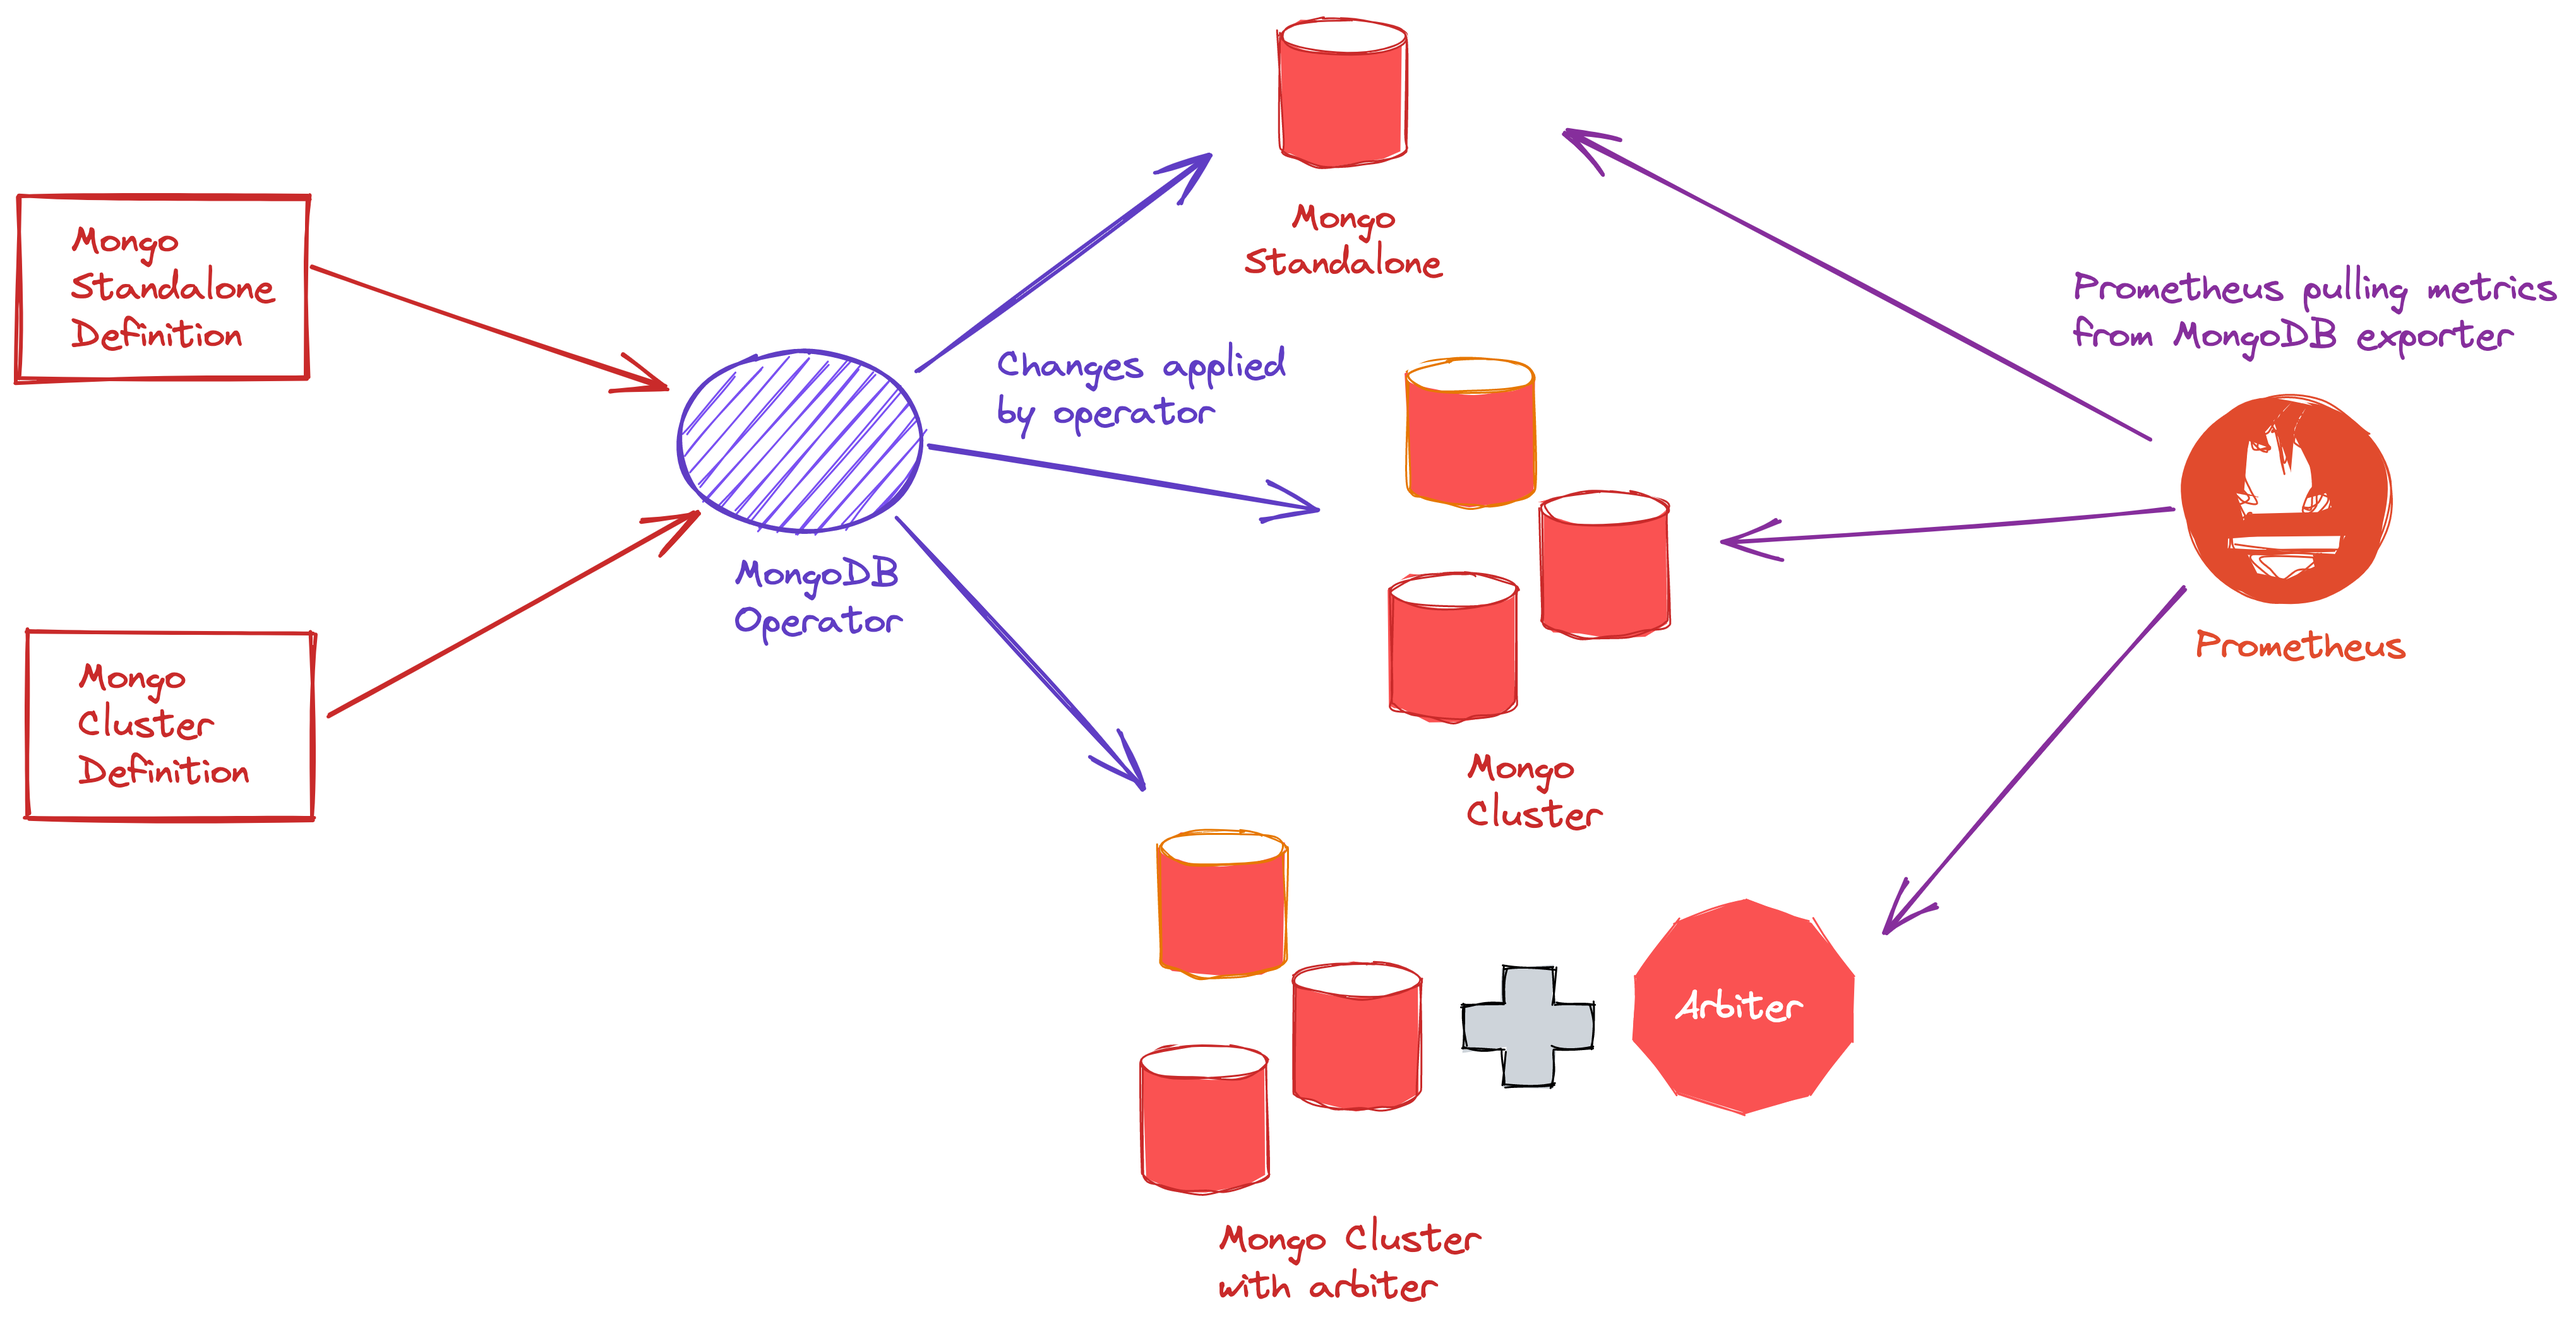
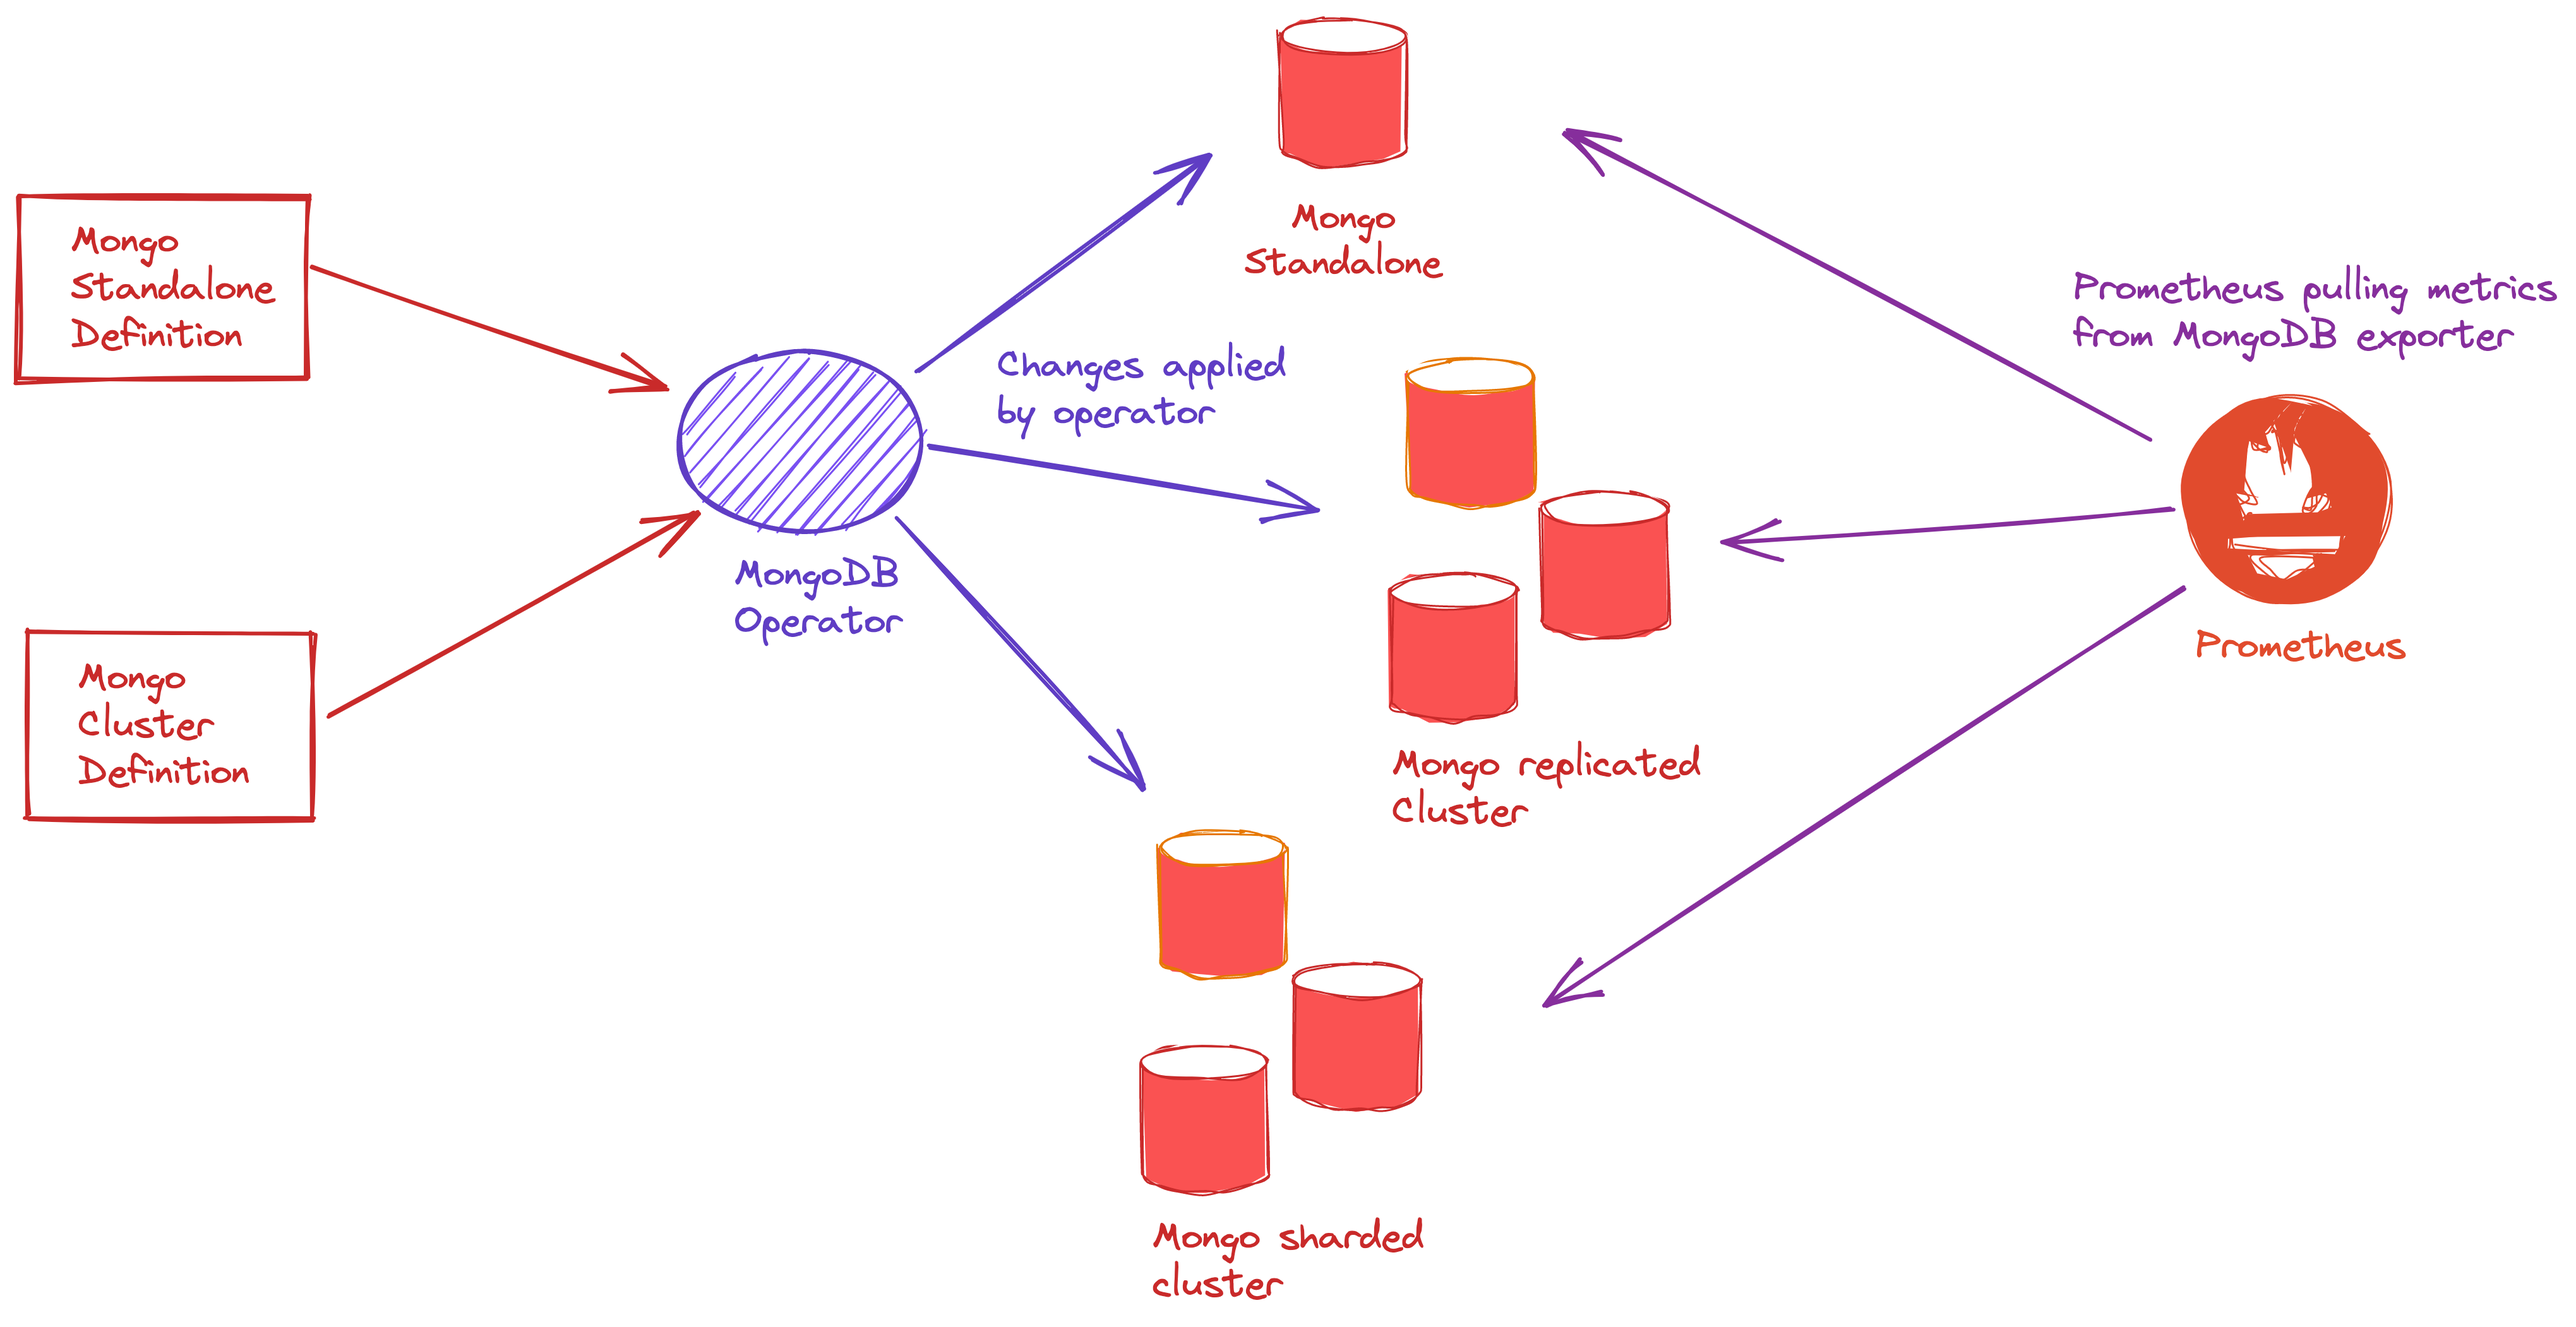
[Documentation][Change] Updated README and architecture image (#21)
* Updated README and architecture image

* Fixed standalone mongo image

diff --git a/README.md b/README.md
@@ -39,16 +39,16 @@ The aim and purpose of creating this MongoDB operator are to provide an easy and
 ## Supported Features
 
 - MongoDB standalone setup
+- MongoDB replicated cluster setup
 - Monitoring support with MongoDB Exporter
 - Password based authentication for MongoDB
+- Kubernetes's resources for MongoDB standalone and cluster
 
 ## Upcoming Features
 
-- MongoDB cluster setup
-- MongoDB cluster setup with arbiter
+- MongoDB sharded cluster setup
 - Customizable configuration changes in MongoDB
 - TLS security support
 - Backup and restore support
 - DB and user creation 
 - Insightful Grafana dashboards
-
